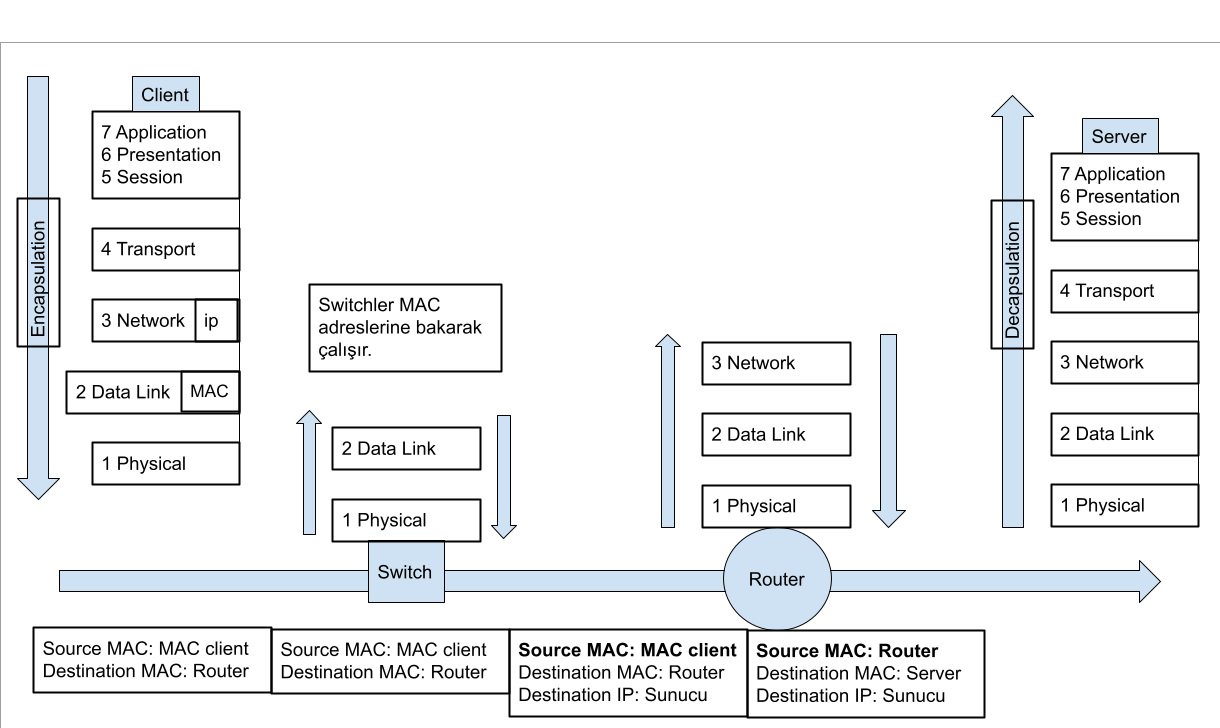
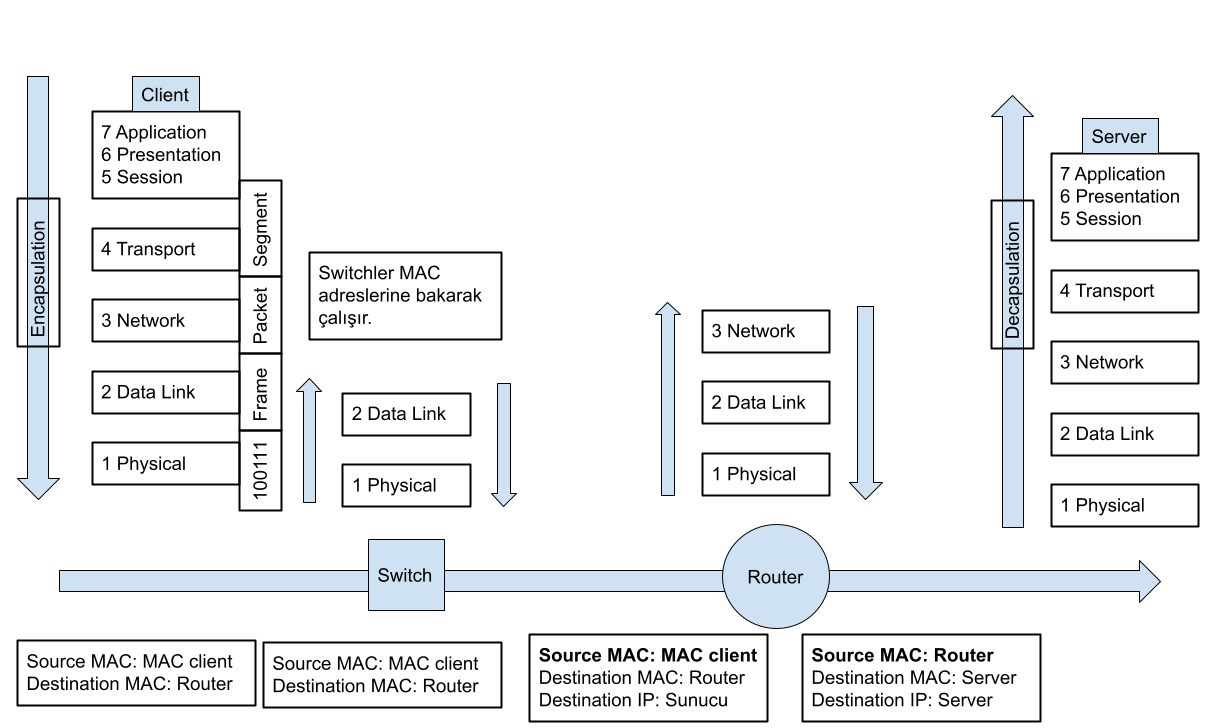
Fiziksel tamamlandı

Changed region(s): [[0.0, 0.2418, 0.8721, 0.9973], [0.4049, 0.5137, 0.4361, 0.5742], [0.6541, 0.7253, 0.6852, 0.7555]]

diff --git a/CCNA1_3.md b/CCNA1_3.md
@@ -219,15 +219,16 @@ Açık standartların olması birlikte çalışma, rekabet ve yenilik teşvik ed
 |           7 Application          	|                                 Data                                 	|         7 Application         	|
 |          6 Presentation          	|                                 Data                                 	|         6 Presentation        	|
 |             5 Session            	|                                 Data                                 	|           5 Session           	|
-|            4 Transport           	|                         Segment Header + Data                        	|          4 Transport          	|
-|             3 Network            	|                 Packet Header + Segment Header + Data                	|           3 Network           	|
-|            2 Data Link           	| Frame Header + Packet Header + Segment Header + Data + Frame Trailer 	|          2 Data Link          	|
+|            4 Transport          	|                      (Segment)    Segment Header + Data                        	|          4 Transport          	|
+|             3 Network           	|               (Packet)   Packet Header + Segment Header + Data                	|           3 Network           	|
+|            2 Data Link         	|  (Frame) Frame Header + Packet Header + Segment Header + Data + Frame Trailer 	|          2 Data Link          	|
 |            1 Physical            	|       110110101010100101100101011111000110101010101101010101010      	|           1 Physical          	|
 
 
 - OSI modeli "All People Seems To Need Data Processing" olarak şifrelenebilir.
 - Paket bir cihazdan diğer cihaza giderken tüm katmanlardan geçer.
-- OSI modeli kısaca şu şekilde özeltlenebilir:
+ 
+OSI modeli kısaca şu şekilde özeltlenebilir:
 
 7-Application: Son kullanıcı katmanıdır, kullanıcı ara yüzleri bu katmanda oluşturulur. Uygulamaların ağ üzerinden çalışması sağlanır.
 6-Presentation: Verilerin formatının ve yapısının belirlendiği katmandır. Gönderilen verilerin anlaşılabilmesini bu katman sağlar.
@@ -237,9 +238,7 @@ Açık standartların olması birlikte çalışma, rekabet ve yenilik teşvik ed
 2-Data Link: İç networkte datanın taşınmasını sağlayan katmandır. Fiziksel katmanla iletişimin kurulmasını sağlar. Akış kontrolünü ve pakette oluşacak hata durumunda bozulan paketlerin erkenden, yani yukarı katmana çıkmadan kontrolünü sağlar.
 1-Physical: Donanım katmanıdır. 1 ve 0 bitlerinin iletilmesini kontrol edilidği katmandır.
 
-
-
-<img src="./Diagrams/1_3_5.png" alt="image" width="90%" height="90%">
+<img src="./Diagrams/1_3_5.png" alt="image" width="70%" height="70%">
 
 ***
 
@@ -265,13 +264,12 @@ Data network üzerinden tek parça halinde iletilmez, küçük parçalara ayrıl
 - Data Link katmanında ise packetin ön ve arka kısmına ethernet header ve trailerın eklenmesiyle **frame** oluşturulmuş olur.
 ***
 
-<img src="./Diagrams/1_3_7.png" alt="image" width="80%" height="80%">
+<img src="./Diagrams/1_3_7.png" alt="image" width="70%" height="70%">
 
-Paket bir cihazdan diğer cihaza giderken tüm katmanlardan geçer demiştik, peki bu durum nasıl gerçekleşir? 
+### Paket bir cihazdan diğer cihaza giderken tüm katmanlardan geçer demiştik, peki bu durum nasıl gerçekleşir? 
 
-Örneğin Youtube'da kullanılan bir data, application, presentation ve session katmanlarından geçerek transport katmanına ulaşır. Ardından segment sırasıyla packete dönüşerek Network katmanına, frame'e dönüşerek data link katmanına, ve bitlere dönüşerekek physical katmana ulaşır.
-
-İç ağda cihazların MAC adresleri ile iletişim kurduklarını söylemiştik. Bu durumda, yani iç ağ cihazlarında yönlendirme MAC adresi ile yapıldığından ağdan çıkmak için ulaşmamız gereken son yerel adres router MAC'i dir. Bu yüzden wireshark'da dinlediğimiz google.com'a, yahoo.com'a ya da cisco.com'a giden tüm paketlerin MAC adresinde aynı MAC adresi yazar.
+Örneğin Youtube'da kullanılan bir data, application, presentation ve session katmanlarından geçerek transport katmanına ulaşır. Ardından Trasnsport katmanında segment'e dönüşen data, sırasıyla,Network katmanında packete, data link katmanında frame'e, Physical katmanda ise ve bitlere dönüştürülür.
+İç ağda cihazların MAC adresleri ile iletişim kurduklarını söylemiştik. Bu durumda, yani iç ağ cihazlarında yönlendirme MAC adresi ile yapıldığından ağdan çıkmak için ulaşmamız gereken son yerel adres router MAC'i dir. Bu yüzden wireshark'da dinlediğimiz google.com'a, yahoo.com'a ya da cisco.com'a giden tüm paketlerin MAC adresinde aynı MAC adresi, yani router cihazın MAC adresi yazar.
 
     Review the captured data in Wireshark, examine the IP and MAC addresses of the three locations that you pinged. List the destination IP and MAC addresses for all three locations in the space provided.
     Answers:
@@ -280,14 +278,37 @@ Paket bir cihazdan diğer cihaza giderken tüm katmanlardan geçer demiştik, pe
     google: Ip: 142.250.203.196 MAC: 00 18 b9 b1 4f 
 
 
-**Verinin router'a gelmesiyle network katmanına kadar çıkılmış olunur, önce hedef IP güncellenir, yani gidilecek servera bağlı olan router'ın IP'si yazılır. Ardından Data Link katmanında ISP networkündeki local ağda bulunan bir sonraki cihazının MAC aderesi yazılır.**
+Verinin router'a gelmesiyle network katmanına kadar çıkılmış olunur, önce hedef IP güncellenir, yani gidilecek servera bağlı olan router'ın IP'si yazılır. Ardından Data Link katmanında ISP networkündeki local ağda bulunan bir sonraki cihazının MAC aderesi yazılır.
+***
+### Kısaca TCP/IP Protokol Paketleri
+
+|                                             TCP/IP                                             	|                                                            Name of Protocols                                                           	|
+|:----------------------------------------------------------------------------------------------:	|:--------------------------------------------------------------------------------------------------------------------------------------:	|
+| Application Layer: <br>Kullanıcı verilerinin kodlanmasını,<br> denetiminin yapılmasını sağlar. 	| DNS: İsim Çözümlenesi<br> SLAAC/DHCPv4: IP adresleme<br> STMP/POP/IMAP: E-mail<br> FTP/SFTP/TFTP: File Transfer<br>HTTP/HTTPS/REST: Web 	|
+|        Transport Layer:<br>Farklı ağlar arasındaki <br>cihazların iletişimini destekler.       	|                                             TCP: Connection Oriented<br>UDP: Connectionless                                            	|
+|                         Internet Layer:<br>Ağdaki en iyi yolu belirler.                        	|                  IPv4/IPv6/NAT: Internet Protokolleri<br>ICMPv4/ICMPv6: Mesajlaşma<br>OSPF/EIGRP/BGP: Router Protocols                 	|
+|   Network Access Layer:<br>Ağı oluşturan donanım <br>aygıtlarını ve medyayı<br> kontrol eder.  	|                                       ARP: Adres Resolution<br>Ethernet/WLAN: Data Link Protocols                                      	|
 
 
 
 ***
+### PDU (Protocol Data Unit): 
+Data'nın bulunduğu katmanda aldığı isime PDU denir. 4. katman için segment 3. katman için frame ve 2. katman içn frame denmesi gibi.
+- Datagram Transport katmanında görülür eklenti kısmı 8 bytedır. Datanın UDP başlığı alması durumunda oluşur.
+- Segment  Transport katmanında görülür eklenti kısmı 20 bytedır. Datanın TCP başlığı alması sonucu oluşur.
+- Packet Network katmanında görülür eklenti kısmı 20 bytedır. IP bilgileri taşınır.
+- Frame Data Link katmanında görülür eklenti kısmının başı 18 bytedır. Ethernet bilgileri taşınır. Kuyruğunda CRC adında kontrol kısmı bulunur.
 
 
+***
+### **Sınava Özel Notlar:**
 
+- MAC adresleri aynı ağda iletişim yaparken kullanılır.
+- IP adresleri farklı ağlar arasında iletişim yaparken kullanılır.
+- Source IP adresiyle destination IP adresleri değişmez.
+- Günümüzde IP adresleri yetersiz olduğundan NAT yapılır. 
+- Switchlerin IP yazılımı yoktur.
+- Default Gateway (DGW) farklı networklere çıkışı sağlayan routerın IP adresidir.
 
 
 
